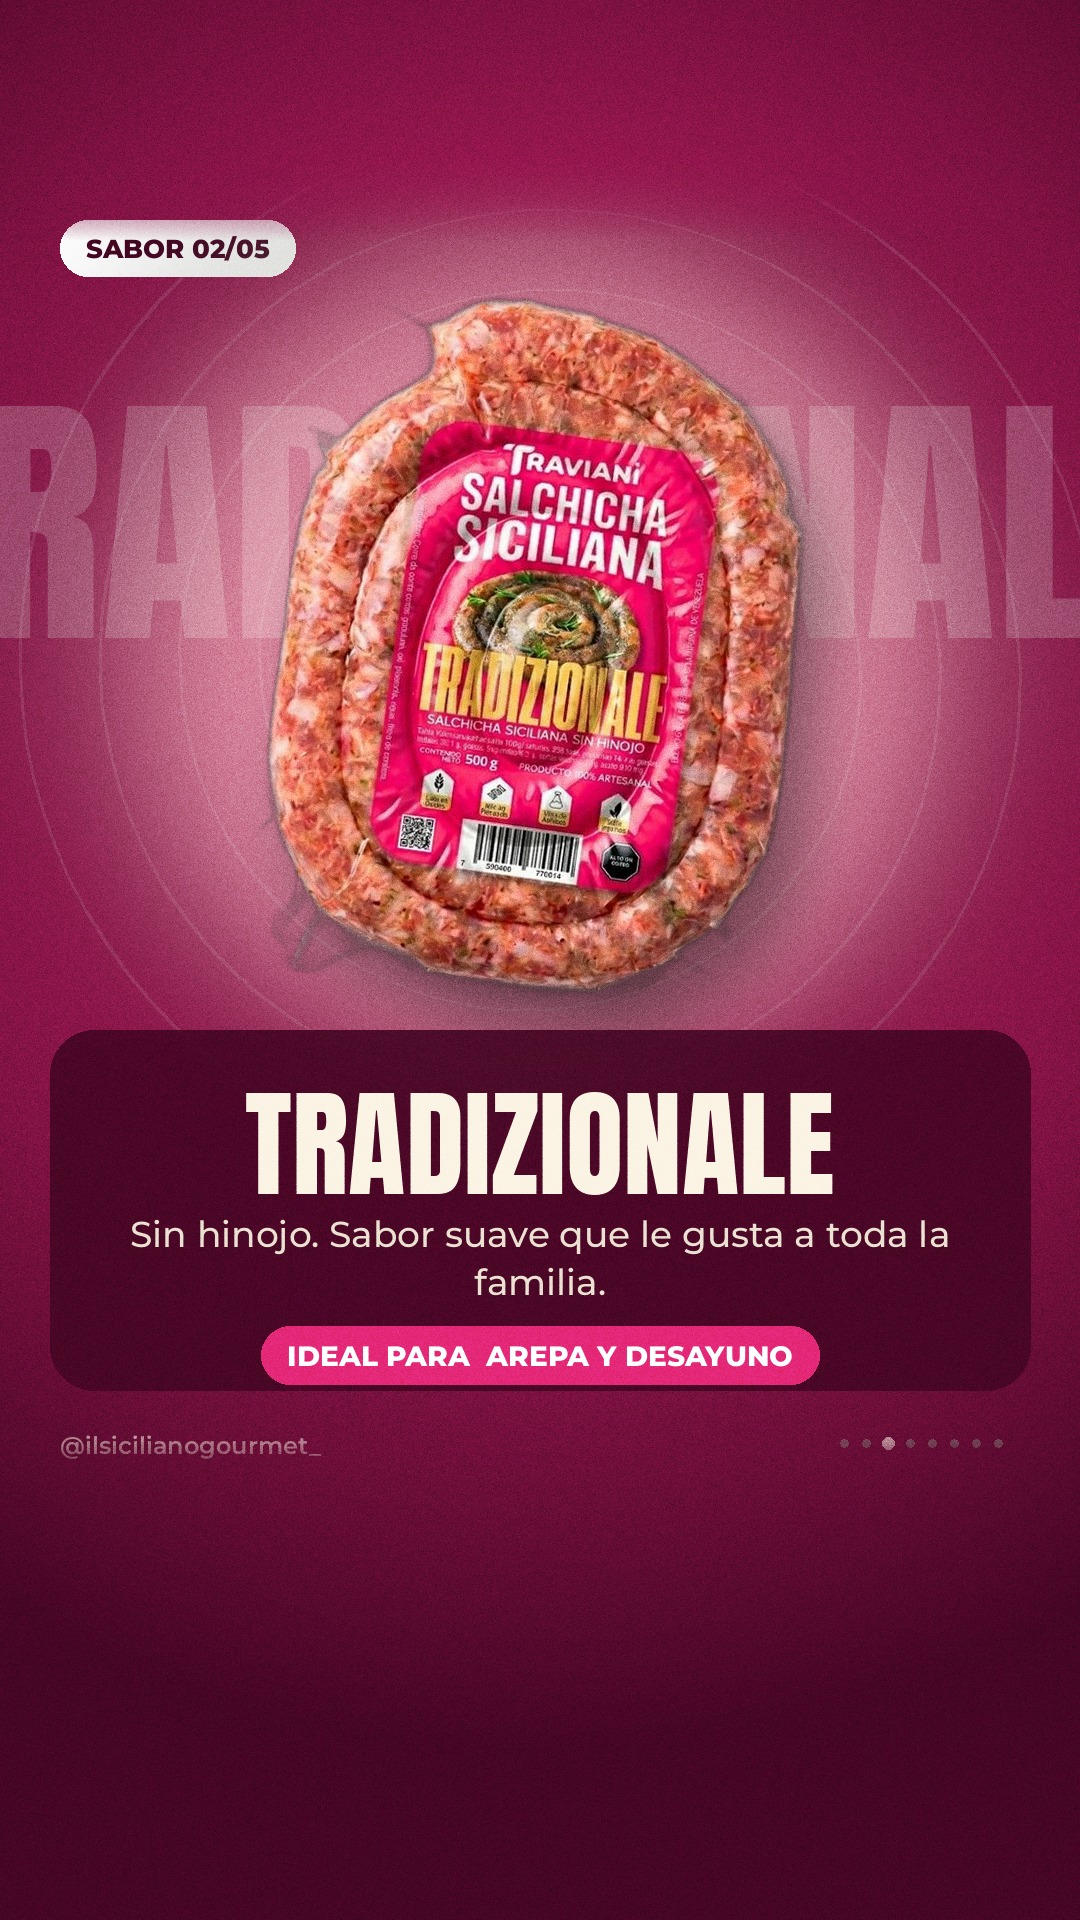
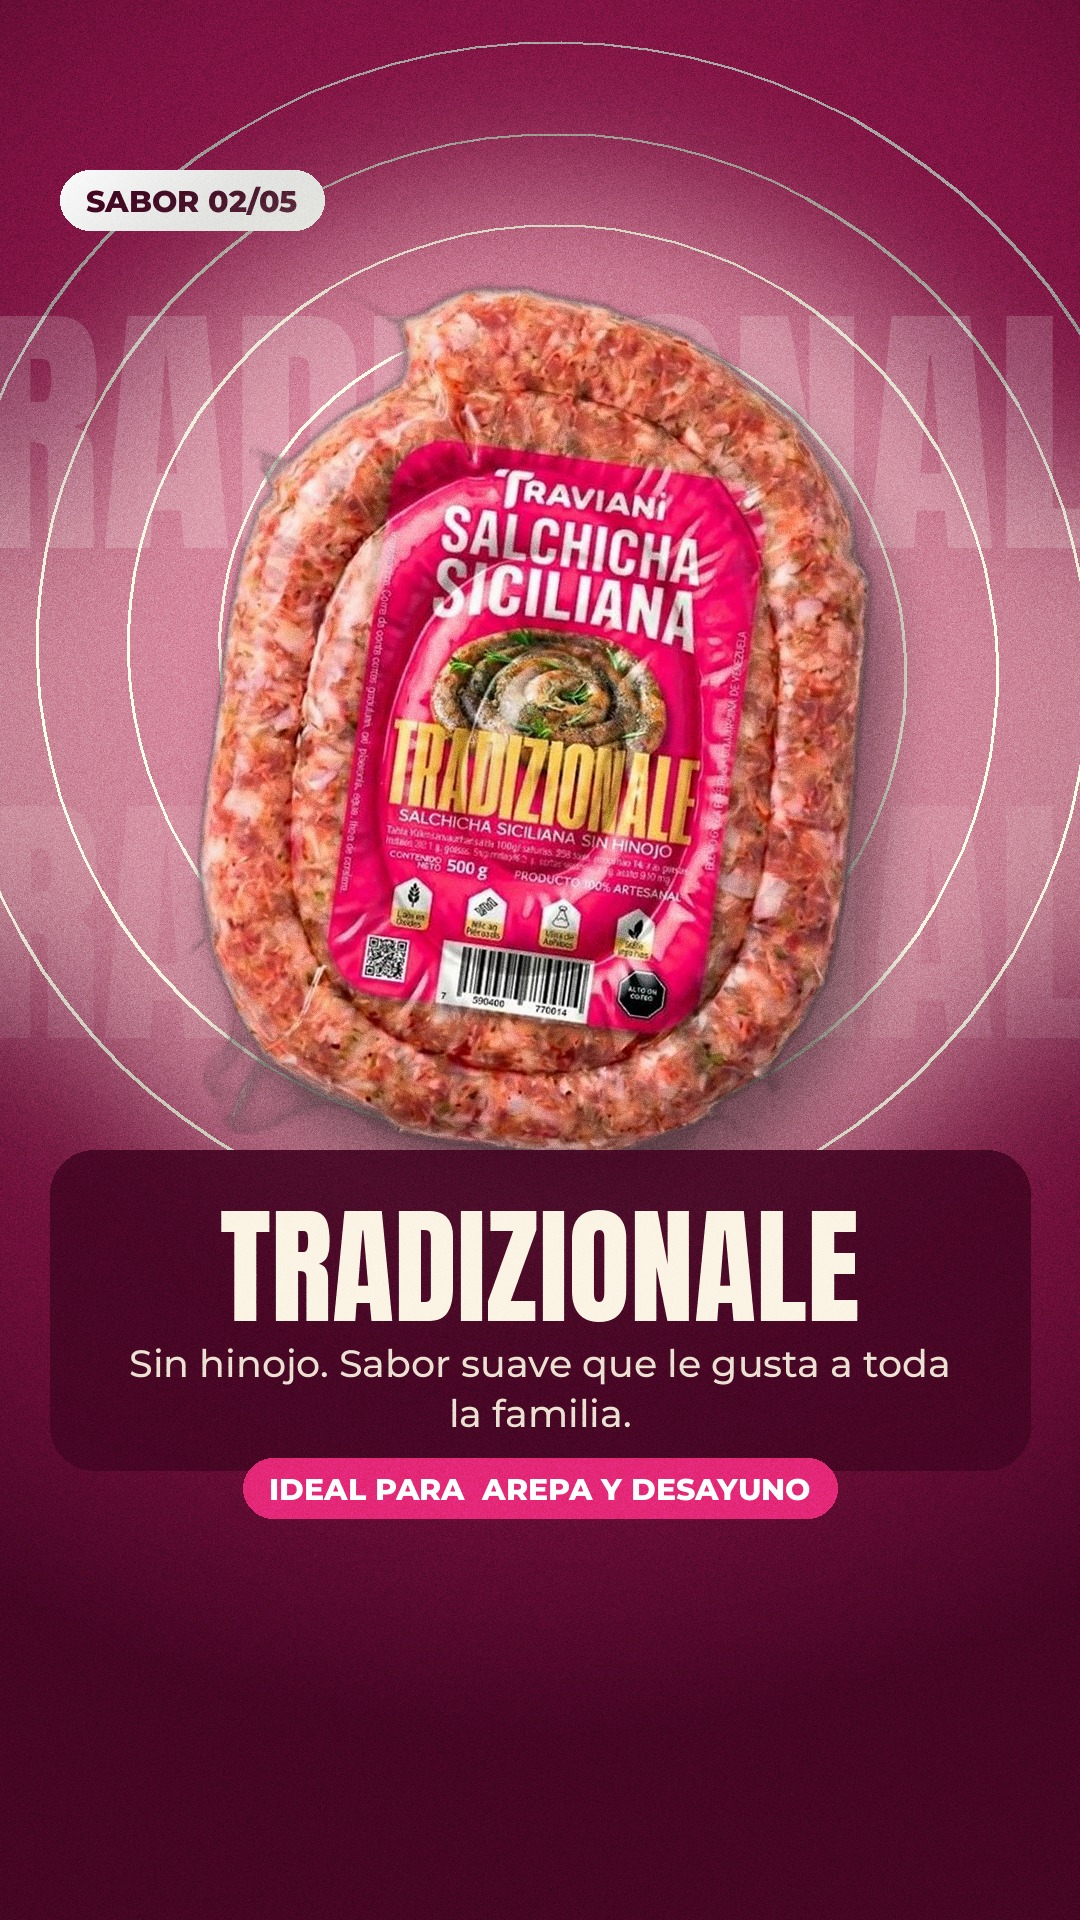
TikTok: diseño propio a pantalla completa
Claude-Session: https://claude.ai/code/session_01BoapLYkqJjC4bybfaGWR3T

diff --git a/generador.py b/generador.py
@@ -54,10 +54,18 @@ def _radial(centro_col, borde_col, cx, cy_px, r, h):
 def radial(centro_col, borde_col, cx=0.5, cy=0.42, r=0.95):
     """Devuelve el lienzo de trabajo 1080x1350. En TikTok es transparente y el fondo
     se pinta a pantalla completa en terminar()."""
-    _fondo.update(args=(centro_col, borde_col, cx, cy, r))
-    if FORMATO == "tt":
-        return Image.new("RGBA", (W, H), (0, 0, 0, 0))
     return _radial(centro_col, borde_col, cx, H * cy, r, H)
+
+
+def usar_formato(f):
+    """'ig' = 1080x1350 | 'tt' = 1080x1920 con diseño propio para pantalla completa."""
+    global FORMATO, H
+    FORMATO = f
+    H = 1920 if f == "tt" else 1350
+
+
+def tt():
+    return FORMATO == "tt"
 
 
 def espiral(d, cx, cy, rmax, color, ancho=3, vueltas=5):
@@ -163,131 +171,150 @@ def pastilla(d, x, y, t, f, fondo, tinta, pad=26, centrado=False):
 
 
 def pie(d, col, n, total):
-    f = mont(24, "SemiBold")
-    d.text((60, H - 70), HANDLE, font=f, fill=col)
-    # puntos de progreso
+    # En TikTok la franja inferior (~380 px) la tapa el texto de la app: el pie sube.
+    y = 1500 if tt() else H - 70
+    f = mont(26 if tt() else 24, "SemiBold")
+    d.text((60, y), HANDLE, font=f, fill=col)
     x = W - 60 - total * 22
     for i in range(total):
         r = 6 if i + 1 == n else 4
         c = col if i + 1 == n else tuple(int(v * 0.5) for v in col)
-        d.ellipse((x + i * 22 - r, H - 57 - r, x + i * 22 + r, H - 57 + r), fill=c)
+        d.ellipse((x + i * 22 - r, y + 13 - r, x + i * 22 + r, y + 13 + r), fill=c)
 
 
 def terminar(base):
-    if FORMATO == "tt":
-        c, b, cx, cy, r = _fondo["args"]
-        fondo = _radial(c, b, cx, TT_OY + H * cy, r * 1.15, TT_H).convert("RGBA")
-        # difuminar bordes superior/inferior del lienzo para que no se vean cortes
-        a = base.split()[3]
-        fade = Image.new("L", (W, H), 255)
-        fd = ImageDraw.Draw(fade)
-        F = 90
-        for i in range(F):
-            v = int(255 * (i / F) ** 1.6)
-            fd.line([(0, i), (W, i)], fill=v)
-            fd.line([(0, H - 1 - i), (W, H - 1 - i)], fill=v)
-        base.putalpha(ImageChops.multiply(a, fade))
-        fondo.alpha_composite(base, (0, TT_OY))
-        return grano(fondo.convert("RGB"), 22)
     return grano(base.convert("RGB"), 22)
 
 
 # ---------- láminas ----------
+# Zona segura TikTok: arriba 150 px, abajo 400 px, derecha ~130 px (botones).
 def portada(l1, l2, l3, total):
-    b = radial((70, 28, 18), OSCURO, cy=0.62).convert("RGBA")
+    T = tt()
+    b = radial((70, 28, 18), OSCURO, cy=0.60 if T else 0.62, r=1.1 if T else 0.95).convert("RGBA")
     d = ImageDraw.Draw(b)
-    for k, r in enumerate([520, 420]):
-        espiral(d, W / 2, 900, r, (236, 178, 56, 40), 2, 6)
-    pastilla(d, 0, 90, "TRAVIANI · SALCHICHA SICILIANA", mont(26, "ExtraBold"), DORADO, OSCURO, centrado=True)
-    centrar(d, 170, l1, anton(210), CREMA)
-    centrar(d, 400, l2, anton(150), DORADO)
-    # abanico de empaques
+    ecy = 1060 if T else 900
+    for r in ([640, 520] if T else [520, 420]):
+        espiral(d, W / 2, ecy, r, (236, 178, 56, 40), 2, 6)
+    pastilla(d, 0, 170 if T else 90, "TRAVIANI · SALCHICHA SICILIANA", mont(30 if T else 26, "ExtraBold"), DORADO, OSCURO, centrado=True)
+    centrar(d, 270 if T else 170, l1, anton(225 if T else 210), CREMA)
+    centrar(d, 530 if T else 400, l2, anton(165 if T else 150), DORADO)
     angs = [-24, -12, 0, 12, 24]
     orden = [0, 4, 1, 3, 2]
+    alto, paso, cy0, caida = (640, 190, 1130, 50) if T else (520, 175, 960, 40)
     for i in orden:
-        p = empaque(i + 1, 520, -angs[i])
-        cx = W / 2 + (i - 2) * 175
-        cy = 960 + abs(i - 2) * 40
+        p = empaque(i + 1, alto, -angs[i])
+        cx = W / 2 + (i - 2) * paso
+        cy = cy0 + abs(i - 2) * caida
         pegar_producto(b, p, (int(cx - p.width / 2), int(cy - p.height / 2)),
                        brillo=(236, 150, 60) if i == 2 else None)
     d = ImageDraw.Draw(b)
-    pastilla(d, 0, 1195, l3, mont(30, "ExtraBold"), CREMA, OSCURO, centrado=True)
-    sticker(b, ["HECHO", "A MANO", "EN CARACAS"], 935, 660, 100, (226, 40, 28), CREMA, -14)
-    pie(d, CREMA, 1, total)
+    pastilla(d, 0, 1420 if T else 1195, l3, mont(36 if T else 30, "ExtraBold"), CREMA, OSCURO, centrado=True)
+    if T:
+        sticker(b, ["HECHO", "A MANO", "EN CARACAS"], 880, 860, 110, (226, 40, 28), CREMA, -14)
+    else:
+        sticker(b, ["HECHO", "A MANO", "EN CARACAS"], 935, 660, 100, (226, 40, 28), CREMA, -14)
+    if not T:
+        pie(d, CREMA, 1, total)
     return terminar(b)
 
 
 def lamina_sabor(nombre, n_sabor, descripcion, ideal, n, total):
+    T = tt()
     s = SABORES[nombre]
-    b = radial(s["color"], s["oscuro"], cy=0.40, r=0.85).convert("RGBA")
+    b = radial(s["color"], s["oscuro"], cy=0.34 if T else 0.40, r=1.0 if T else 0.85).convert("RGBA")
     d = ImageDraw.Draw(b)
-    espiral(d, W / 2, 520, 560, (255, 255, 255, 28), 3, 7)
-    texto_gigante(b, nombre, (255, 255, 255), 55, 170)
-    pastilla(ImageDraw.Draw(b), 60, 70, f"SABOR {n_sabor:02d}/05", mont(26, "ExtraBold"), (255, 255, 255), s["oscuro"])
-    p = empaque(s["foto"], 700, -8)
-    pegar_producto(b, p, ((W - p.width) // 2, 120), brillo=(255, 255, 230))
-    # tarjeta inferior
+    espiral(d, W / 2, 660 if T else 520, 640 if T else 560, (255, 255, 255, 28), 3, 7)
+    if T:  # nombre gigante apilado en 2 niveles para llenar el alto
+        texto_gigante(b, nombre, (255, 255, 255), 50, 230)
+        texto_gigante(b, nombre, (255, 255, 255), 25, 720)
+    else:
+        texto_gigante(b, nombre, (255, 255, 255), 55, 170)
+    pastilla(ImageDraw.Draw(b), 60, 170 if T else 70, f"SABOR {n_sabor:02d}/05", mont(30 if T else 26, "ExtraBold"), (255, 255, 255), s["oscuro"])
+    p = empaque(s["foto"], 880 if T else 700, -8)
+    pegar_producto(b, p, ((W - p.width) // 2, 250 if T else 120), brillo=(255, 255, 230))
+    top, bot = (1150, 1470) if T else (880, H - 110)
     t = capa()
-    td = ImageDraw.Draw(t)
-    td.rounded_rectangle((50, 880, W - 50, H - 110), 44, fill=s["oscuro"] + (235,))
+    ImageDraw.Draw(t).rounded_rectangle((50, top, W - 50, bot), 44, fill=s["oscuro"] + (235,))
     b.alpha_composite(t)
     d = ImageDraw.Draw(b)
-    centrar(d, 905, nombre, anton(118), CREMA)
-    fd = mont(36, "Medium")
-    y = 1062
+    centrar(d, top + 20, nombre, anton(128 if T else 118), CREMA)
+    fd = mont(38 if T else 36, "Medium")
+    y = top + (190 if T else 182)
     for l in envolver(d, descripcion, fd, 860):
-        centrar(d, y, l, fd, (235, 225, 210)); y += 48
-    pastilla(d, 0, y + 18, "IDEAL PARA  " + ideal.upper(), mont(28, "ExtraBold"), s["color"], (255, 255, 255), centrado=True)
-    pie(d, CREMA, n, total)
+        centrar(d, y, l, fd, (235, 225, 210)); y += 50
+    pastilla(d, 0, y + 18, "IDEAL PARA  " + ideal.upper(), mont(30 if T else 28, "ExtraBold"), s["color"], (255, 255, 255), centrado=True)
+    if not T:
+        pie(d, CREMA, n, total)
     return terminar(b)
 
 
 def lamina_lista(titulo, items, nota, n, total):
+    T = tt()
     b = radial((58, 30, 20), OSCURO, cy=0.35).convert("RGBA")
     d = ImageDraw.Draw(b)
-    texto_gigante(b, "LIMPIA", (236, 178, 56), 22, 40, 330)
-    centrar(d, 110, "INGREDIENTES", mont(34, "ExtraBold"), DORADO)
-    centrar(d, 160, titulo, anton(150), CREMA)
-    y = 430
-    for i, it in enumerate(items):
-        x = 90 if i % 2 == 0 else 560
-        yy = y + (i // 2) * 250
-        cl = capa(); ImageDraw.Draw(cl).rounded_rectangle((x, yy, x + 430, yy + 210), 36, fill=(255, 255, 255, 22), outline=DORADO + (255,), width=3)
+    texto_gigante(b, "LIMPIA", (236, 178, 56), 22, 140 if T else 40, 330)
+    centrar(d, 200 if T else 110, "INGREDIENTES", mont(36 if T else 34, "ExtraBold"), DORADO)
+    centrar(d, 260 if T else 160, titulo, anton(135 if T else 150), CREMA)
+    # En TikTok: tarjetas en una columna, anchas y altas
+    for i, (grande, chico) in enumerate(items):
+        if T:
+            x, yy, w, h = 70, 520 + i * 200, 700, 170
+        else:
+            x, yy, w, h = (90 if i % 2 == 0 else 560), 430 + (i // 2) * 250, 430, 210
+        cl = capa()
+        ImageDraw.Draw(cl).rounded_rectangle((x, yy, x + w, yy + h), 36, fill=(255, 255, 255, 22), outline=DORADO + (255,), width=3)
         b.alpha_composite(cl); d = ImageDraw.Draw(b)
-        d.ellipse((x + 30, yy + 30, x + 100, yy + 100), fill=DORADO)
-        d.line([(x + 48, yy + 66), (x + 62, yy + 80), (x + 84, yy + 50)], fill=OSCURO, width=8, joint="curve")
-        grande, chico = it
-        d.text((x + 120, yy + 40), chico, font=mont(26, "ExtraBold"), fill=DORADO)
-        d.text((x + 30, yy + 108), grande, font=anton(72), fill=CREMA)
-    p = empaque(3, 330, 10)
-    pegar_producto(b, p, (W - p.width - 30, 950), brillo=(236, 120, 40))
+        cy = yy + (h // 2 if T else 65)
+        cx0 = x + 30
+        d.ellipse((cx0, cy - 35, cx0 + 70, cy + 35), fill=DORADO)
+        d.line([(cx0 + 18, cy), (cx0 + 32, cy + 14), (cx0 + 54, cy - 16)], fill=OSCURO, width=8, joint="curve")
+        if T:
+            d.text((x + 130, yy + 22), chico, font=mont(28, "ExtraBold"), fill=DORADO)
+            d.text((x + 130, yy + 58), grande, font=anton(80), fill=CREMA)
+        else:
+            d.text((x + 120, yy + 40), chico, font=mont(26, "ExtraBold"), fill=DORADO)
+            d.text((x + 30, yy + 108), grande, font=anton(72), fill=CREMA)
+    if T:
+        p = empaque(3, 560, 12)
+        pegar_producto(b, p, (W - p.width + 150, 640), brillo=(236, 120, 40))
+    else:
+        p = empaque(3, 330, 10)
+        pegar_producto(b, p, (W - p.width - 30, 950), brillo=(236, 120, 40))
     d = ImageDraw.Draw(b)
-    fn = mont(36, "SemiBold")
-    yy = 1000
-    for l in envolver(d, nota, fn, 560):
-        d.text((90, yy), l, font=fn, fill=CREMA); yy += 50
-    pie(d, CREMA, n, total)
+    fn = mont(40 if T else 36, "SemiBold")
+    yy = 1340 if T else 1000
+    for l in envolver(d, nota, fn, 900 if T else 560):
+        (centrar(d, yy, l, fn, CREMA) if T else d.text((90, yy), l, font=fn, fill=CREMA)); yy += 54
+    if not T:
+        pie(d, CREMA, n, total)
     return terminar(b)
 
 
 def lamina_cta(titulo, lineas, boton, precio, n, total):
-    b = radial((250, 196, 80), (196, 118, 20), cy=0.55).convert("RGBA")
+    T = tt()
+    b = radial((250, 196, 80), (196, 118, 20), cy=0.48 if T else 0.55, r=1.1 if T else 0.95).convert("RGBA")
     d = ImageDraw.Draw(b)
-    espiral(d, W / 2, 800, 620, (255, 255, 255, 45), 3, 7)
-    y = 90
+    espiral(d, W / 2, 900 if T else 800, 700 if T else 620, (255, 255, 255, 45), 3, 7)
+    y = 180 if T else 90
     for t in titulo:
-        centrar(d, y, t, anton(150), OSCURO); y += 170
-    ps = [empaque(k, 430, a) for k, a in [(1, 14), (5, -14), (3, 0)]]
-    pos = [(W / 2 - 250, 760), (W / 2 + 250, 760), (W / 2, 720)]
+        centrar(d, y, t, anton(150 if T else 150), OSCURO); y += 180 if T else 170
+    alto = 560 if T else 430
+    cyl, cyc, dx = (880, 840, 270) if T else (760, 720, 250)
+    ps = [empaque(k, alto, a) for k, a in [(1, 14), (5, -14), (3, 0)]]
+    pos = [(W / 2 - dx, cyl), (W / 2 + dx, cyl), (W / 2, cyc)]
     for p, (cx, cy) in zip(ps, pos):
         pegar_producto(b, p, (int(cx - p.width / 2), int(cy - p.height / 2)), brillo=(255, 240, 200))
-    sticker(b, ["SOLO", precio, "1/2 KG"], 905, 640, 115, (226, 40, 28), CREMA, 12)
+    if T:
+        sticker(b, ["SOLO", precio, "1/2 KG"], 870, 700, 120, (226, 40, 28), CREMA, 12)
+    else:
+        sticker(b, ["SOLO", precio, "1/2 KG"], 905, 640, 115, (226, 40, 28), CREMA, 12)
     d = ImageDraw.Draw(b)
-    fb = mont(40, "ExtraBold")
-    pastilla(d, 0, 1000, boton, fb, OSCURO, CREMA, pad=40, centrado=True)
-    fl = mont(32, "Bold")
-    yy = 1110
+    fb = mont(44 if T else 40, "ExtraBold")
+    pastilla(d, 0, 1210 if T else 1000, boton, fb, OSCURO, CREMA, pad=44 if T else 40, centrado=True)
+    fl = mont(36 if T else 32, "Bold")
+    yy = 1340 if T else 1110
     for l in lineas:
-        centrar(d, yy, l, fl, OSCURO); yy += 46
-    pie(d, OSCURO, n, total)
+        centrar(d, yy, l, fl, OSCURO); yy += 52 if T else 46
+    if not T:
+        pie(d, OSCURO, n, total)
     return terminar(b)

diff --git a/dia01.py b/dia01.py
@@ -1,5 +1,5 @@
 import sys, generador
-generador.FORMATO = sys.argv[1] if len(sys.argv)>1 else 'ig'
+generador.usar_formato(sys.argv[1] if len(sys.argv)>1 else 'ig')
 from generador import *
 CARP = 'dia01' if generador.FORMATO=='ig' else 'dia01_tt'
 import os; os.makedirs(CARP, exist_ok=True)
